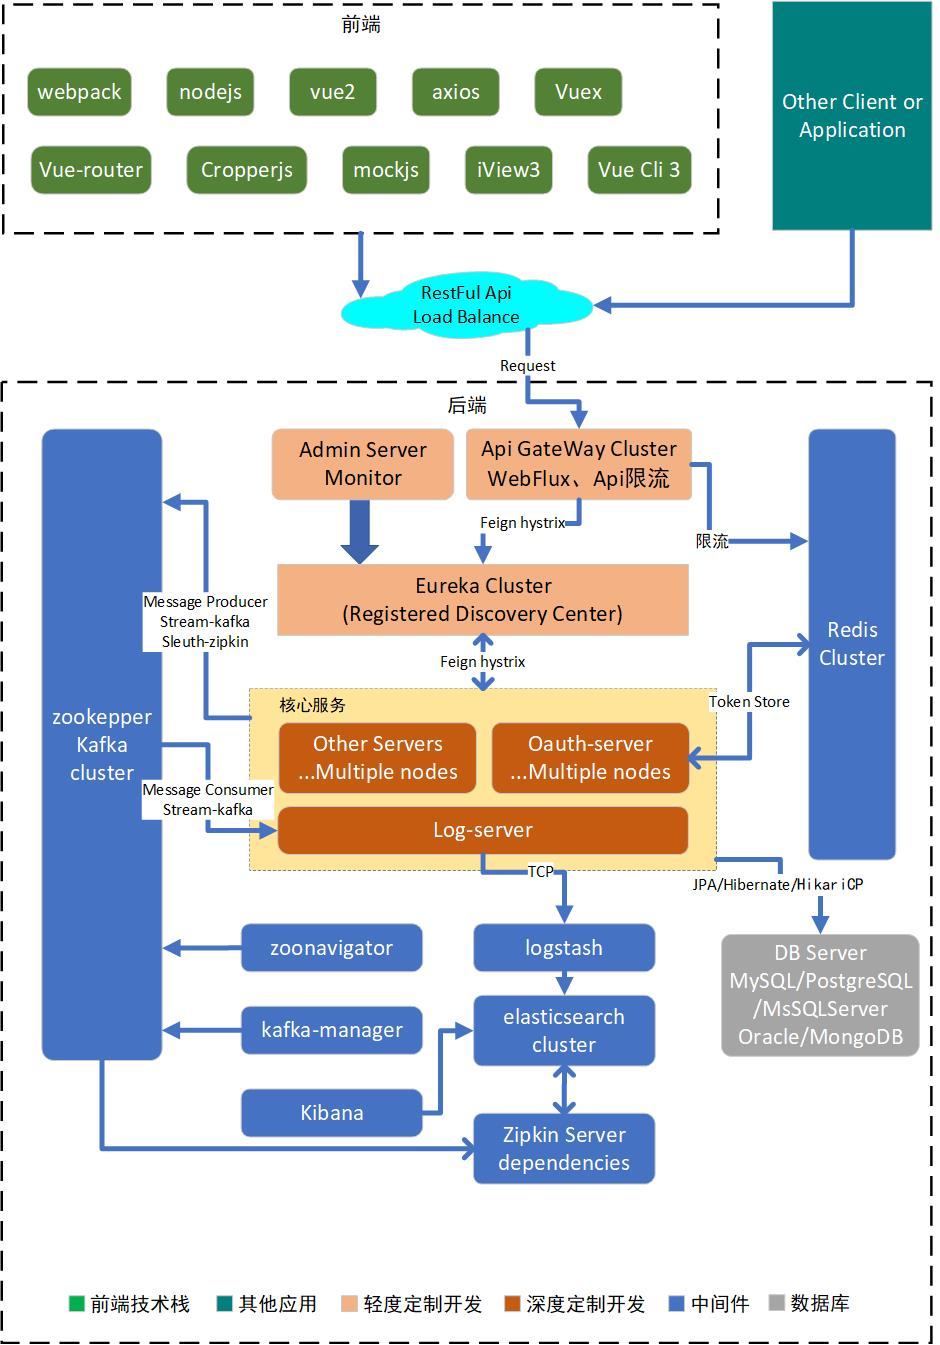
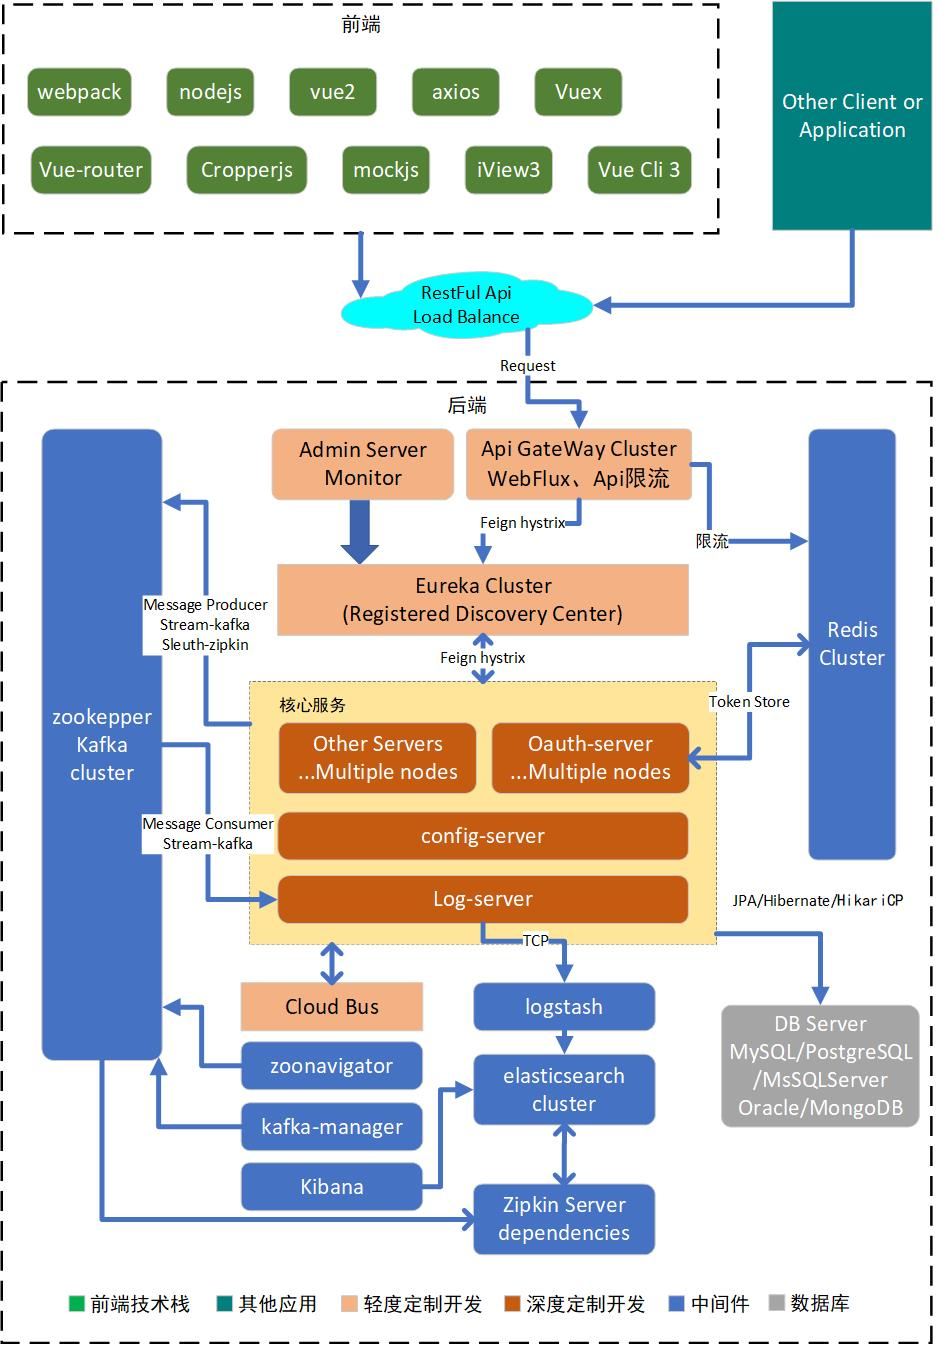
[Upgrade] 更新文档

Changed region(s): [[0.0926, 0.4684, 0.9872, 0.9368], [0.1543, 0.4372, 0.2777, 0.4996]]

diff --git a/README.md b/README.md
@@ -41,6 +41,16 @@
 
 ## 总体架构
 ![Architecture diagram](doc/images/总体架构.jpg)
+#### 说明
+- 各服务在 eureka server 上进行注册，gateway 和其他各个服务通过 eureka 发现和查找目标服务进行访问
+- gateway server 根据制定的策略路由到指定服务
+- 各深度定制开发的服务通过 kafka 发送日志消息，log server 从 kafka 中消费消息并进行日志的统一记录
+- 各深度定制开发的服务从 config server 中获取自定义配置信息
+- 各深度定制开发的服务可通过 kafka 发送 bus 总线事件，广播给所有其余服务进行配置刷新
+- 各服务将链路互相调用的链路信息通过 kafka 发送给 zipkin server
+- 各服务将链路互相调用的断路信息通过 admin server 进行监控
+- oauth server 将 token 信息持久化到 redis 进行统一认证管理
+- 日志服务不仅将日志信息记录在本地，还发送给 elasticsearch 进行汇总
 
 ## 一、环境要求
 - jdk 11
@@ -136,19 +146,19 @@ ext {
 >    - docker exec -it [容器Id] /bin/sh
 >    - elasticsearch-plugin install https://github.com/medcl/elasticsearch-analysis-ik/releases/download/v6.5.4/elasticsearch-analysis-ik-6.5.4.zip
 >    - elasticsearch-plugin install https://github.com/medcl/elasticsearch-analysis-pinyin/releases/download/v6.5.4/elasticsearch-analysis-pinyin-6.5.4.zip
-##### 1. zipkin
+##### 1. zipkin 链路监控
 http://127.0.0.1:9411
 ![Architecture diagram](doc/images/zipkin.png)
-##### 2. kafka-manager
+##### 2. kafka-manager kafka队列监控
 http://127.0.0.1:9000
 ![Architecture diagram](doc/images/kafka-manager.png)
-##### 3. zoonavigator
+##### 3. zoonavigator zookeeper监控
 http://127.0.0.1:8004
 ![Architecture diagram](doc/images/zoonavigator.png)
-##### 4. prometheus
+##### 4. prometheus 通过从zipkin中收集的信息进行性能监控
 http://127.0.0.1:9090
 ![Architecture diagram](doc/images/prometheus.png)
-##### 5. kibana
+##### 5. kibana elasticsearch内容管理，进行统一日志检索
 http://127.0.0.1:5601
 ![Architecture diagram](doc/images/kibana.png)
 

diff --git a/doc/version_history.md b/doc/version_history.md
@@ -4,6 +4,7 @@
 > - [Upgrade] 规范 yml 配置文件
 > - [Upgrade] 增加配置中心服务
 > - [Upgrade] 日志服务从 oauth 服务获取运行时参数，改为从配置中心获取配置信息
+> - [Upgrade] 更新文档
 ##### v1.1.0
 > - 应用配置，进行增、删、改、更新密钥操作时候，在oauth中重新装载client信息，实时生效
 > - 更新 SpringBoot 至 2.1.3.RELEASE
